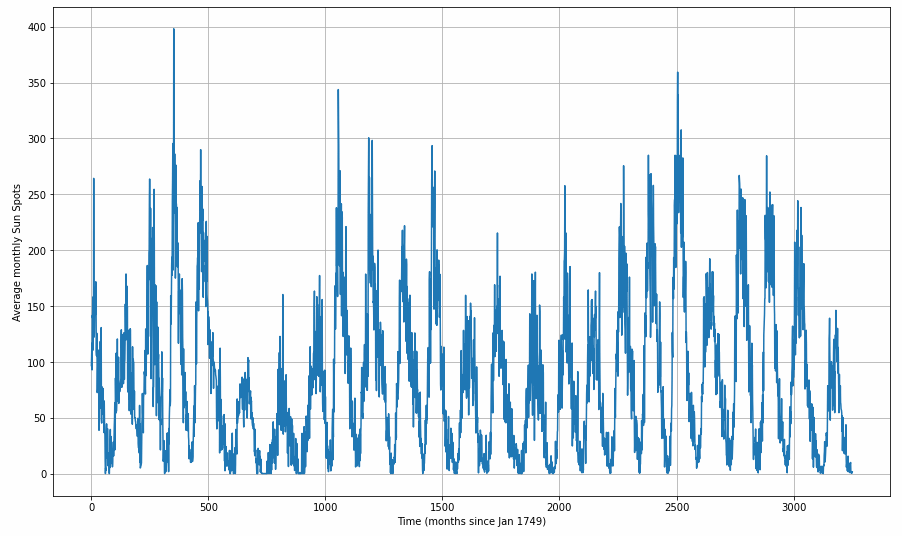
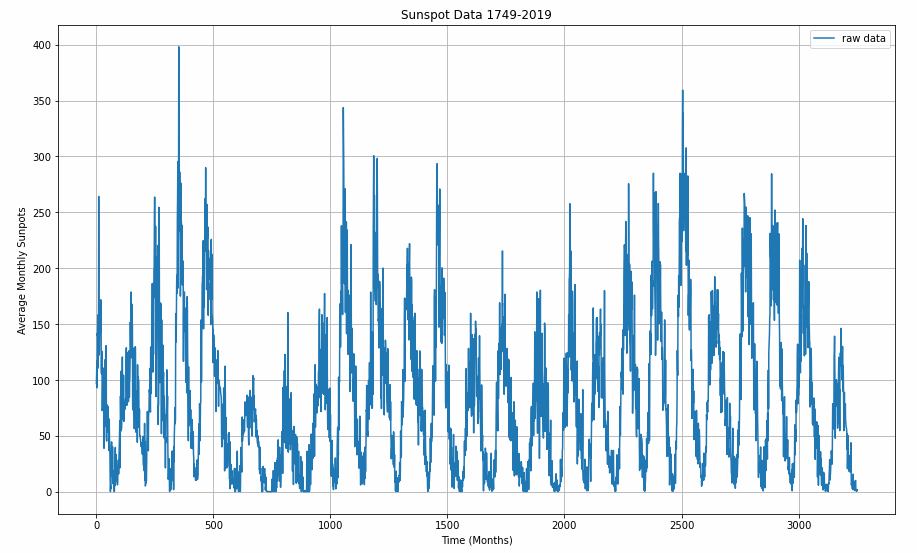
sunspot article upload

diff --git a/research/_posts/2020-07-30-Sunspot-Activity-Time-Series.md b/research/_posts/2020-07-30-Sunspot-Activity-Time-Series.md
@@ -1,0 +1,358 @@
+---
+title: Time Series Modeling - Sunspot Activity
+image: /assets/img/research/Sunspot/SunSpot_Cover.png
+description: >
+  Time Series data requires more complicated pre-processing
+---
+
+For this project we will examine making time series predictions using sunspot records. Sunspots are dark spots on the sun, associated with lower temperature.
+
+As the Sun moves through its natural 11-year cycle, in which its activity rises and falls, sunspots rise and fall in number, too. NASA and NOAA track sunspots in order to determine, and predict, the progress of the solar cycle — and ultimately, solar activity.
+
+Currenly, in 2019/2020, sunspots are at the end of the cycle, but are expected to pick up soon.
+
+Forecasting this dataset is challenging because of high short-term variability as well as long-term irregularities evident in the cycles. For example, maximum amplitudes reached by the low frequency cycle differ a lot, as does the number of high-frequency cycle steps needed to reach that maximum low-frequency cycle height.
+
+Methodically, this project will focus on how how to apply deep learning to time series forecasting with LSTMs, and implement learning rate optimization for the lowest loss possible.
+
+Have a look at the notebook **<a href="https://github.com/ChristianHallerX/DataScienceProjects/blob/master/Sun_Spot_Activity_TimeSeries.ipynb" target="_blank">here</a>**.
+
+
+
+## Dataset
+
+The data used the most up-todate monthly version that contains monthly averages. It contains 270 years worth of data (from 1749 through 2019) and a total of 3252 samples (months). The data can be found **<a href="https://www.kaggle.com/robervalt/sunspots" target="_blank">here</a>** at Kaggle.
+
+
+## Methodology
+
+A Recurrent Neural Network (RNN) is a type of neural network well-suited to time series data. RNNs process a time series step-by-step, maintaining an internal state from time-step to time-step.
+
+In this project, we use an RNN layer called Long Short Term Memory (LSTM).
+
+An important constructor argument for all keras RNN layers is the return_sequences argument. This setting can configure the layer in one of two ways.
+
+
+## Module Imports
+
+<pre><code>
+import kaggle #api token file required
+import os
+import shutil
+import zipfile
+import pandas as pd
+import csv
+import tensorflow as tf
+import numpy as np
+import matplotlib.pyplot as plt
+
+</code></pre>
+
+
+
+## Step 1: Download, Unzip, Load
+
+Most conveniently use the Kaggle API for downloading this challenge data set. You will need a Kaggle account and save the API credentials in a specific folder.
+
+<pre><code>
+!kaggle datasets download -d robervalt/sunspots
+
+# target folder
+local_zip = f'{os.getcwd()}\\Data\\sunspots.zip'
+
+# cut and paste
+shutil.move(f'{os.getcwd()}\\sunspots.zip', local_zip)
+
+zip_ref = zipfile.ZipFile(local_zip, 'r')
+zip_ref.extractall(f'{os.getcwd()}\\data')
+zip_ref.close()
+
+</code></pre>
+
+
+
+
+
+## Step 2: Read csv and Explore
+
+Pandas dataframes allow for very neat, tabular representation of csv files.
+
+<pre><code>
+pd.read_csv(f'{os.getcwd()}\\data\\sunspots.csv')
+
+</code></pre>
+
+<br><img src="/assets/img/research/Sunspot/pandastable.png" alt="pandas graph" style="width:480px"><br>
+
+However, for the remainder of the project we will use Numpy arrays.
+The lines of the csv are read line-by-ine with an iterator. The column headers need to be skipped. We need the running index as time monthly steps and the sunspot counts. Note that the data gets cast into integer and floats.
+
+<pre><code>
+time_step = []
+sunspots = []
+
+with open(f'{os.getcwd()}\\Data\\sunspots.csv') as csvfile:
+  reader = csv.reader(csvfile, delimiter=',')
+  next(reader) # the next() function skips the first line (header) when looping
+  for row in reader:
+    sunspots.append(float(row[2]))
+    time_step.append(int(row[0]))
+
+</code></pre>
+
+
+For plotting up data later on, define a function that accepts time steps and sun spot values.
+ 
+ 
+<pre><code>
+def plot_series(time, series, format="-", start=0, end=None, label=None):
+    myplot = plt.plot(time[start:end], series[start:end], format, label=label)
+    plt.xlabel("Time (Months)")
+    plt.ylabel("Average Monthly Sunpots")
+    if label != None:
+        plt.legend()
+    plt.grid(True)
+
+</code></pre>
+
+Before plotting, the data gets converted to Numpy arrays.
+
+<pre><code>
+series = np.array(sunspots)
+time = np.array(time_step)
+
+plt.figure(figsize=(15, 9))
+plot_series(time, series)
+
+</code></pre>
+
+<br><img src="/assets/img/research/Sunspot/activity_graph.png" alt="sunspot activity dataset graph" style="width:640px"><br>
+
+
+
+## Step 3: Pre-Processing
+
+Now that the data set is available as a single chunk of 3251 samples, we want to sub-divide it into a train set and a viladation set. With ther split time set at 3000, the largest chunk will go into training.
+
+<pre><code>
+split_time = 3000
+time_train = time[:split_time]
+x_train = series[:split_time]
+time_valid = time[split_time:]
+x_valid = series[split_time:]
+
+# the window size is important for training results
+window_size = 30
+batch_size = 32
+shuffle_buffer_size = 1000
+
+</code></pre>
+
+Graphing helps us understanding the split better.
+
+<pre><code>
+plt.figure(figsize=(15, 9))
+plt.title("Train/Test Split")
+plot_series(time_train, x_train, label="training set")
+plot_series(time_valid, x_valid, label="validation set")
+
+</code></pre>
+
+<br><img src="/assets/img/research/Sunspot/split.png" alt="split graph" style="width:640px"><br>
+
+
+For training a time series, the algorithm takes in a snippet of samples and predicts the next point coming afterwards. The windowing helper-function does this with our desired window size.
+The longer the window size, the more history can be learned to forecast the value that comes next. The window_size value influences the model performance and requires optimizing for the sunspot cycles.
+
+<pre><code>
+def windowed_dataset(series, window_size, batch_size, shuffle_buffer):
+    series = tf.expand_dims(series, axis=-1)
+    ds = tf.data.Dataset.from_tensor_slices(series)
+    ds = ds.window(window_size + 1, shift=1, drop_remainder=True)
+    ds = ds.flat_map(lambda w: w.batch(window_size + 1))
+    ds = ds.shuffle(shuffle_buffer)
+    ds = ds.map(lambda w: (w[:-1], w[1:]))
+    return ds.batch(batch_size).prefetch(1)
+
+</code></pre>
+
+To demonstrate how the windowed_dataset function and the window_size parameter are slicing the data set, have a closer look at the graph below.
+
+<pre><code>
+window_size = 64
+
+def plot_split(array, window_size):
+    number_windows = len(array) // window_size + 1
+    return np.array_split(array, number_windows, axis=0)
+
+plt.figure(figsize=(15, 9))
+plt.title("Windows")
+
+for series_window,time_window in zip(plot_split(series,window_size), plot_split(time,window_size)):
+    plot_series(time_window, series_window)
+
+</code></pre>
+
+<br><img src="/assets/img/research/Sunspot/windows.png" alt="windows graph" style="width:640px"><br>
+
+
+## Step 4: Train for Learning Rate Optimization
+
+Next task is finding a learning rate that delivers the least loss. With a callback that contains a Learning Rate Scheduler, the learning rate is increased sucessively over the 100 epochs. The model design itself will remain the same later. Fisrst, a 1D-convolutional filter with a width of 5 (2 samples before, two after the selected sample) and then two LSTM layers do the sequence learning work. Two dense layers and an output layer (1 neuron) make up the rest of the network. 
+
+The Huber loss makes it necessary to work with larger outputs. That is why the lambda layer was chosen to multiply the output layer's results by 400. I decided to use the Mean Absolute Error (MAE) as a metric that does not punish for large errors as severely as the Mean Squared Error (MSE)
+
+<pre><code>
+tf.keras.backend.clear_session()
+tf.random.set_seed(51)
+np.random.seed(51)
+window_size = 64
+batch_size = 256
+train_set = windowed_dataset(x_train, window_size, batch_size, shuffle_buffer_size)
+print(train_set)
+print(x_train.shape)
+
+model = tf.keras.models.Sequential([
+  tf.keras.layers.Conv1D(filters=32, kernel_size=5,
+                      strides=1, padding="causal",
+                      activation="relu",
+                      input_shape=[None, 1]),
+  tf.keras.layers.LSTM(64, return_sequences=True),
+  tf.keras.layers.LSTM(64, return_sequences=True),
+  tf.keras.layers.Dense(30, activation="relu"),
+  tf.keras.layers.Dense(10, activation="relu"),
+  tf.keras.layers.Dense(1),
+  tf.keras.layers.Lambda(lambda x: x * 400)
+  ])
+
+lr_schedule = tf.keras.callbacks.LearningRateScheduler(lambda epoch: 1e-8 * 10**(epoch / 20))
+
+optimizer = tf.keras.optimizers.SGD(lr=1e-8, momentum=0.9)
+
+model.compile(loss=tf.keras.losses.Huber(),
+              optimizer=optimizer,
+              metrics=["mae"])
+
+history = model.fit(train_set, epochs=100, callbacks=[lr_schedule], verbose=0)
+
+</code></pre>
+
+All the epoch's metrics are saved in the history variable and can be visualized. The graph helps us find a learning rate with lowest loss and assure it is in an area of low volatility. A learning rate of 10e-5 is a save pick.
+
+<pre><code>
+# pick lr from graph
+plt.semilogx(history.history["lr"], history.history["loss"])
+plt.axis([1e-8, 1e-4, 0, 60])
+plt.title('Learing Rate Optimization')
+plt.xlabel("Learing Rate")
+plt.ylabel("Loss")
+
+</code></pre>
+
+<br><img src="/assets/img/research/Sunspot/lroptimization.png" alt="lr optimization graph" style="width:640px"><br>
+
+
+
+## Step 5: Train with Optimized Learning Rate
+
+Plug in the new learning rate, remove the learning rate scheduler callback, and increase epochs. The network design remains the same as before.
+
+<pre><code>
+tf.keras.backend.clear_session()
+tf.random.set_seed(51)
+np.random.seed(51)
+
+train_set = windowed_dataset(x_train, window_size=60, batch_size=100, shuffle_buffer=shuffle_buffer_size)
+
+model = tf.keras.models.Sequential([
+  tf.keras.layers.Conv1D(filters=32, kernel_size=5,
+                      strides=1, padding="causal",
+                      activation="relu",
+                      input_shape=[None, 1]),
+  tf.keras.layers.LSTM(60, return_sequences=True),
+  tf.keras.layers.LSTM(60, return_sequences=True),
+  tf.keras.layers.Dense(30, activation="relu"),
+  tf.keras.layers.Dense(10, activation="relu"),
+  tf.keras.layers.Dense(1),
+  tf.keras.layers.Lambda(lambda x: x * 400)
+  ])
+
+optimizer = tf.keras.optimizers.SGD(lr=1e-5, momentum=0.9)
+
+model.compile(loss=tf.keras.losses.Huber(),
+              optimizer=optimizer,
+              metrics=["mae"])
+
+history = model.fit(train_set,epochs=500, verbose=0)
+
+</code></pre>
+
+
+Visualize the training progress.
+
+<pre><code>
+import matplotlib.image  as mpimg
+import matplotlib.pyplot as plt
+
+loss = history.history['loss']
+epochs = range(len(loss))
+
+# full graph
+plt.plot(epochs, loss, 'r')
+plt.title('Training loss')
+plt.xlabel("Epochs")
+plt.ylabel("Loss")
+plt.legend(["Loss"])
+plt.figure()
+
+# zoomed graph
+zoomed_loss = loss[200:]
+zoomed_epochs = range(200,500)
+
+plt.plot(zoomed_epochs, zoomed_loss, 'r')
+plt.title('Training loss (zoomed)')
+plt.xlabel("Epochs")
+plt.ylabel("Loss")
+plt.legend(["Loss"])
+plt.figure()
+
+</code></pre>
+
+<br><img src="/assets/img/research/Sunspot/history.png" alt="history graphs" style="width:640px"><br>
+
+
+## Step 6: Forecasting and Evaluating
+
+Define a helper function for forecasting, call it, and plot a zoom-in of one of the cycles. Here, we see the last sun-spot cycle and how the model (orange) at least visually matches the training/validation (blue) data quite well.
+
+<pre><code>
+def model_forecast(model, series, window_size):
+    ds = tf.data.Dataset.from_tensor_slices(series)
+    ds = ds.window(window_size, shift=1, drop_remainder=True)
+    ds = ds.flat_map(lambda w: w.batch(window_size))
+    ds = ds.batch(32).prefetch(1)
+    forecast = model.predict(ds)
+    return forecast
+
+rnn_forecast = model_forecast(model, series[..., np.newaxis], window_size)
+rnn_forecast = rnn_forecast[split_time - window_size:-1, -1, 0]
+
+plt.figure(figsize=(10, 6))
+plt.title("Forecast")
+plot_series(time_valid, x_valid, label='validation set')
+plot_series(time_valid, rnn_forecast, label='forecast')
+
+</code></pre>
+
+<br><img src="/assets/img/research/Sunspot/forecast.png" alt="forecast graph" style="width:640px"><br>
+
+Of course, a quantitative comparison is more accurate in describing the model's fit to the validation set.
+
+<pre><code>
+print('Mean Absolute Error (MAE): ',tf.keras.metrics.mean_absolute_error(x_valid, rnn_forecast).numpy())
+
+</code></pre>
+
+**Mean Absolute Error (MAE):  14.52463**
+
+This has been a long post, and necessarily will have left a lot of questions open, first and foremost: How do we obtain good settings for the hyperparameters (learning rate, number of epochs...)? How do we choose the length of the LSTM? Or even, can we have an intuition how well LSTM will perform on a given dataset (with its specific characteristics)? All questions to be tackled in the future.
